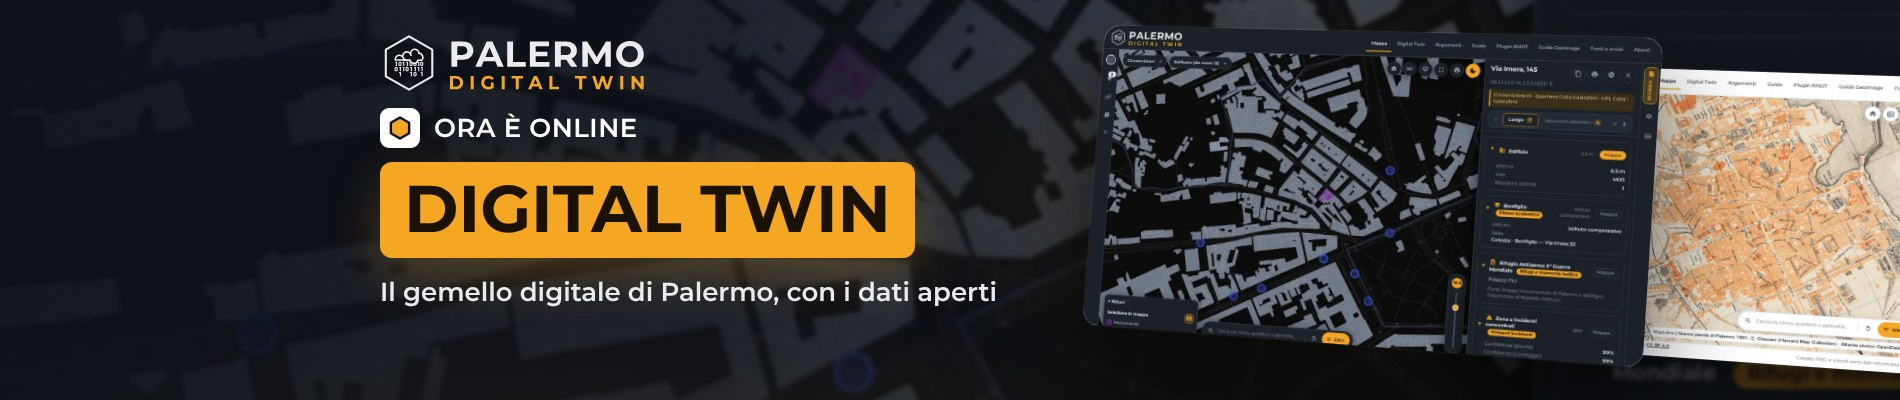
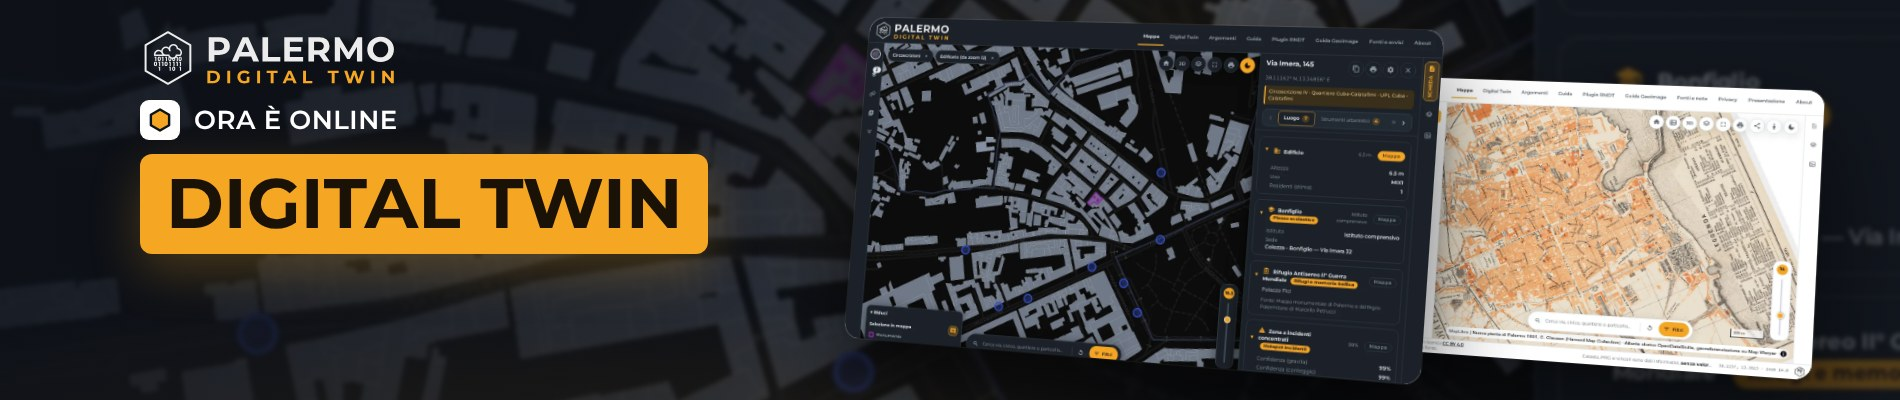
social: slide palermohub 1900x400 ricomposta per lo slider (niente vuoto a sinistra, nulla sotto il testo del sito)
Claude-Session: https://claude.ai/code/session_015iN7zQo7jfYNrWs2XMbkh3

diff --git a/scripts/social/slide-palermohub-1900x400.html b/scripts/social/slide-palermohub-1900x400.html
@@ -13,22 +13,22 @@ body { font-family: 'Montserrat', sans-serif; color: #fff; position: relative; }
 #mappa { inset: 0; overflow: hidden; }
 #mappa img { position: absolute; width: 2600px; left: -300px; top: -700px; filter: blur(2px) brightness(.75) saturate(1.15); }
 #velo { inset: 0; background:
-  linear-gradient(90deg, rgba(14,18,26,.92) 0%, rgba(14,18,26,.78) 38%, rgba(14,18,26,.35) 70%, rgba(14,18,26,.55) 100%),
-  radial-gradient(ellipse 35% 80% at 70% 50%, rgba(245,166,35,.22), transparent 70%), radial-gradient(ellipse 60% 70% at 25% 120%, rgba(245,166,35,.30), transparent 70%); }
+  linear-gradient(90deg, rgba(14,18,26,.85) 0%, rgba(14,18,26,.7) 35%, rgba(14,18,26,.35) 65%, rgba(14,18,26,.6) 100%),
+  radial-gradient(ellipse 35% 80% at 60% 40%, rgba(245,166,35,.22), transparent 70%), radial-gradient(ellipse 60% 70% at 25% 120%, rgba(245,166,35,.30), transparent 70%); }
 /* testo: tutto nella fascia y 300–720, che lo slider mostra anche su schermi stretti */
-.testo { left: 380px; top: 34px; width: 760px; }
-.logo { height: 58px; display: block; }
-.etich { margin-top: 16px; display: flex; align-items: center; gap: 14px; font-weight: 600; font-size: 26px; letter-spacing: .02em; }
+.testo { left: 140px; top: 30px; width: 760px; }
+.logo { height: 56px; display: block; }
+.etich { margin-top: 14px; display: flex; align-items: center; gap: 14px; font-weight: 600; font-size: 26px; letter-spacing: .02em; }
 .badge { width: 40px; height: 40px; border-radius: 9px; background: #fff; display: grid; place-items: center; }
 .box { display: inline-block; margin-top: 14px; background: #f5a623; color: #1a1206; font-weight: 700; text-transform: uppercase;
-  font-size: 66px; line-height: 1; padding: 14px 24px 16px; border-radius: 12px; box-shadow: 0 18px 50px rgba(245,166,35,.25); white-space: nowrap; }
+  font-size: 70px; line-height: 1; padding: 14px 26px 16px; border-radius: 12px; box-shadow: 0 18px 50px rgba(245,166,35,.25); white-space: nowrap; }
 .sotto { margin-top: 18px; white-space: nowrap; font-weight: 600; font-size: 26px; line-height: 1.25; color: #e8ebf0; }
 .scena { inset: 0; perspective: 2200px; }
 .shot { position: absolute; border-radius: 16px; overflow: hidden; background: #fff;
   box-shadow: 0 40px 90px rgba(0,0,0,.6), 0 0 0 1px rgba(255,255,255,.1); }
 .shot img { display: block; width: 100%; height: 100%; object-fit: cover; }
-.a { left: 1080px; top: 30px; width: 560px; height: 315px; transform: rotateY(-22deg) rotateX(5deg) rotateZ(3deg); }
-.b { left: 1500px; top: 70px; width: 520px; height: 293px; transform: rotateY(-18deg) rotateX(7deg) rotateZ(3deg); }
+.a { left: 830px; top: 22px; width: 600px; height: 338px; transform: rotateY(-22deg) rotateX(5deg) rotateZ(3deg); }
+.b { left: 1300px; top: 80px; width: 500px; height: 281px; transform: rotateY(-18deg) rotateX(7deg) rotateZ(3deg); }
 .c { left: 1430px; top: 120px; width: 330px; height: 330px; border-radius: 26px; transform: rotateY(-16deg) rotateZ(5deg); }
 </style>
 </head>
@@ -43,7 +43,6 @@ body { font-family: 'Montserrat', sans-serif; color: #fff; position: relative; }
   <img class="logo" src="../../img/logo-palermo-digital-twin-scuro.svg" alt="">
   <div class="etich"><span class="badge"><svg viewBox="0 0 100 100" width="24" height="24"><polygon points="50,6 88,28 88,72 50,94 12,72 12,28" fill="#f5a623" stroke="#0e121a" stroke-width="10" stroke-linejoin="round"/></svg></span>ORA È ONLINE</div>
   <div class="box">Gemello digitale</div>
-  <p class="sotto">Tutta Palermo su una sola mappa, con i dati aperti</p>
 </div>
 </body>
 </html>

diff --git a/scripts/social/slide-palermohub-1900x400-dt.html b/scripts/social/slide-palermohub-1900x400-dt.html
@@ -13,22 +13,22 @@ body { font-family: 'Montserrat', sans-serif; color: #fff; position: relative; }
 #mappa { inset: 0; overflow: hidden; }
 #mappa img { position: absolute; width: 2600px; left: -300px; top: -700px; filter: blur(2px) brightness(.75) saturate(1.15); }
 #velo { inset: 0; background:
-  linear-gradient(90deg, rgba(14,18,26,.92) 0%, rgba(14,18,26,.78) 38%, rgba(14,18,26,.35) 70%, rgba(14,18,26,.55) 100%),
-  radial-gradient(ellipse 35% 80% at 70% 50%, rgba(245,166,35,.22), transparent 70%), radial-gradient(ellipse 60% 70% at 25% 120%, rgba(245,166,35,.30), transparent 70%); }
+  linear-gradient(90deg, rgba(14,18,26,.85) 0%, rgba(14,18,26,.7) 35%, rgba(14,18,26,.35) 65%, rgba(14,18,26,.6) 100%),
+  radial-gradient(ellipse 35% 80% at 60% 40%, rgba(245,166,35,.22), transparent 70%), radial-gradient(ellipse 60% 70% at 25% 120%, rgba(245,166,35,.30), transparent 70%); }
 /* testo: tutto nella fascia y 300–720, che lo slider mostra anche su schermi stretti */
-.testo { left: 380px; top: 34px; width: 760px; }
-.logo { height: 58px; display: block; }
-.etich { margin-top: 16px; display: flex; align-items: center; gap: 14px; font-weight: 600; font-size: 26px; letter-spacing: .02em; }
+.testo { left: 140px; top: 30px; width: 760px; }
+.logo { height: 56px; display: block; }
+.etich { margin-top: 14px; display: flex; align-items: center; gap: 14px; font-weight: 600; font-size: 26px; letter-spacing: .02em; }
 .badge { width: 40px; height: 40px; border-radius: 9px; background: #fff; display: grid; place-items: center; }
 .box { display: inline-block; margin-top: 14px; background: #f5a623; color: #1a1206; font-weight: 700; text-transform: uppercase;
-  font-size: 66px; line-height: 1; padding: 14px 24px 16px; border-radius: 12px; box-shadow: 0 18px 50px rgba(245,166,35,.25); white-space: nowrap; }
+  font-size: 70px; line-height: 1; padding: 14px 26px 16px; border-radius: 12px; box-shadow: 0 18px 50px rgba(245,166,35,.25); white-space: nowrap; }
 .sotto { margin-top: 18px; white-space: nowrap; font-weight: 600; font-size: 26px; line-height: 1.25; color: #e8ebf0; }
 .scena { inset: 0; perspective: 2200px; }
 .shot { position: absolute; border-radius: 16px; overflow: hidden; background: #fff;
   box-shadow: 0 40px 90px rgba(0,0,0,.6), 0 0 0 1px rgba(255,255,255,.1); }
 .shot img { display: block; width: 100%; height: 100%; object-fit: cover; }
-.a { left: 1080px; top: 30px; width: 560px; height: 315px; transform: rotateY(-22deg) rotateX(5deg) rotateZ(3deg); }
-.b { left: 1500px; top: 70px; width: 520px; height: 293px; transform: rotateY(-18deg) rotateX(7deg) rotateZ(3deg); }
+.a { left: 830px; top: 22px; width: 600px; height: 338px; transform: rotateY(-22deg) rotateX(5deg) rotateZ(3deg); }
+.b { left: 1300px; top: 80px; width: 500px; height: 281px; transform: rotateY(-18deg) rotateX(7deg) rotateZ(3deg); }
 .c { left: 1430px; top: 120px; width: 330px; height: 330px; border-radius: 26px; transform: rotateY(-16deg) rotateZ(5deg); }
 </style>
 </head>
@@ -43,7 +43,6 @@ body { font-family: 'Montserrat', sans-serif; color: #fff; position: relative; }
   <img class="logo" src="../../img/logo-palermo-digital-twin-scuro.svg" alt="">
   <div class="etich"><span class="badge"><svg viewBox="0 0 100 100" width="24" height="24"><polygon points="50,6 88,28 88,72 50,94 12,72 12,28" fill="#f5a623" stroke="#0e121a" stroke-width="10" stroke-linejoin="round"/></svg></span>ORA È ONLINE</div>
   <div class="box">Digital Twin</div>
-  <p class="sotto">Il gemello digitale di Palermo, con i dati aperti</p>
 </div>
 </body>
 </html>
